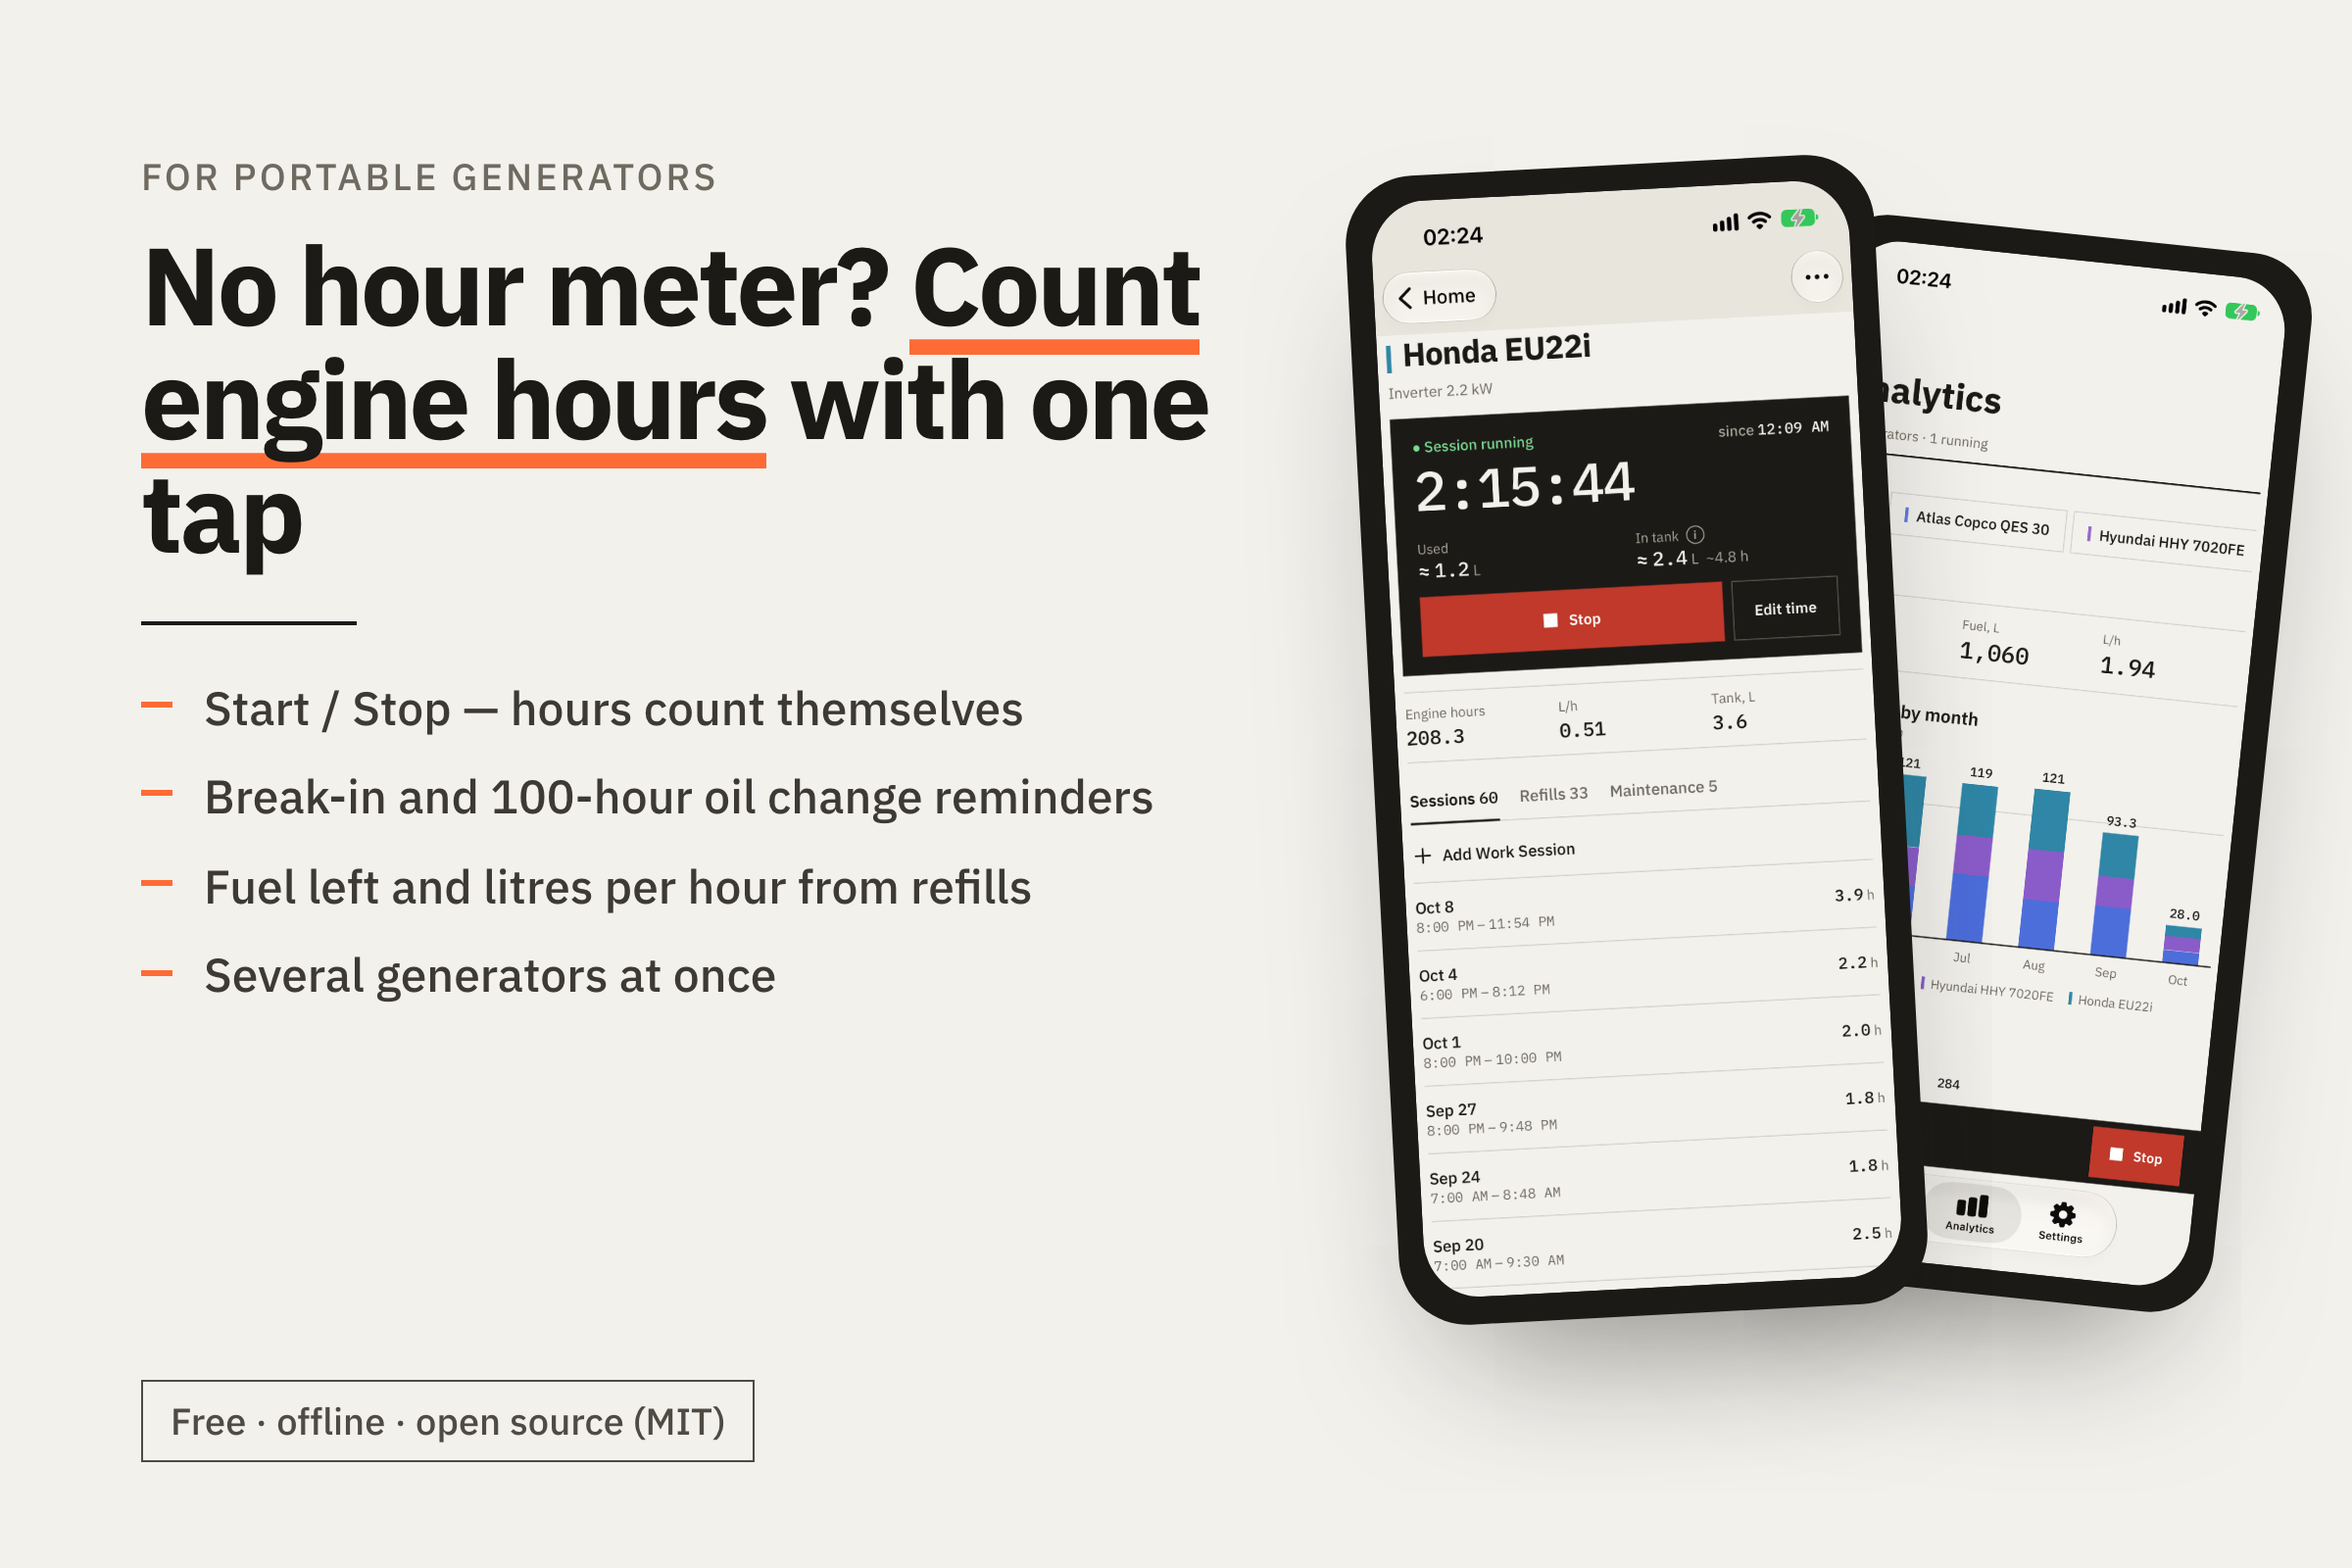
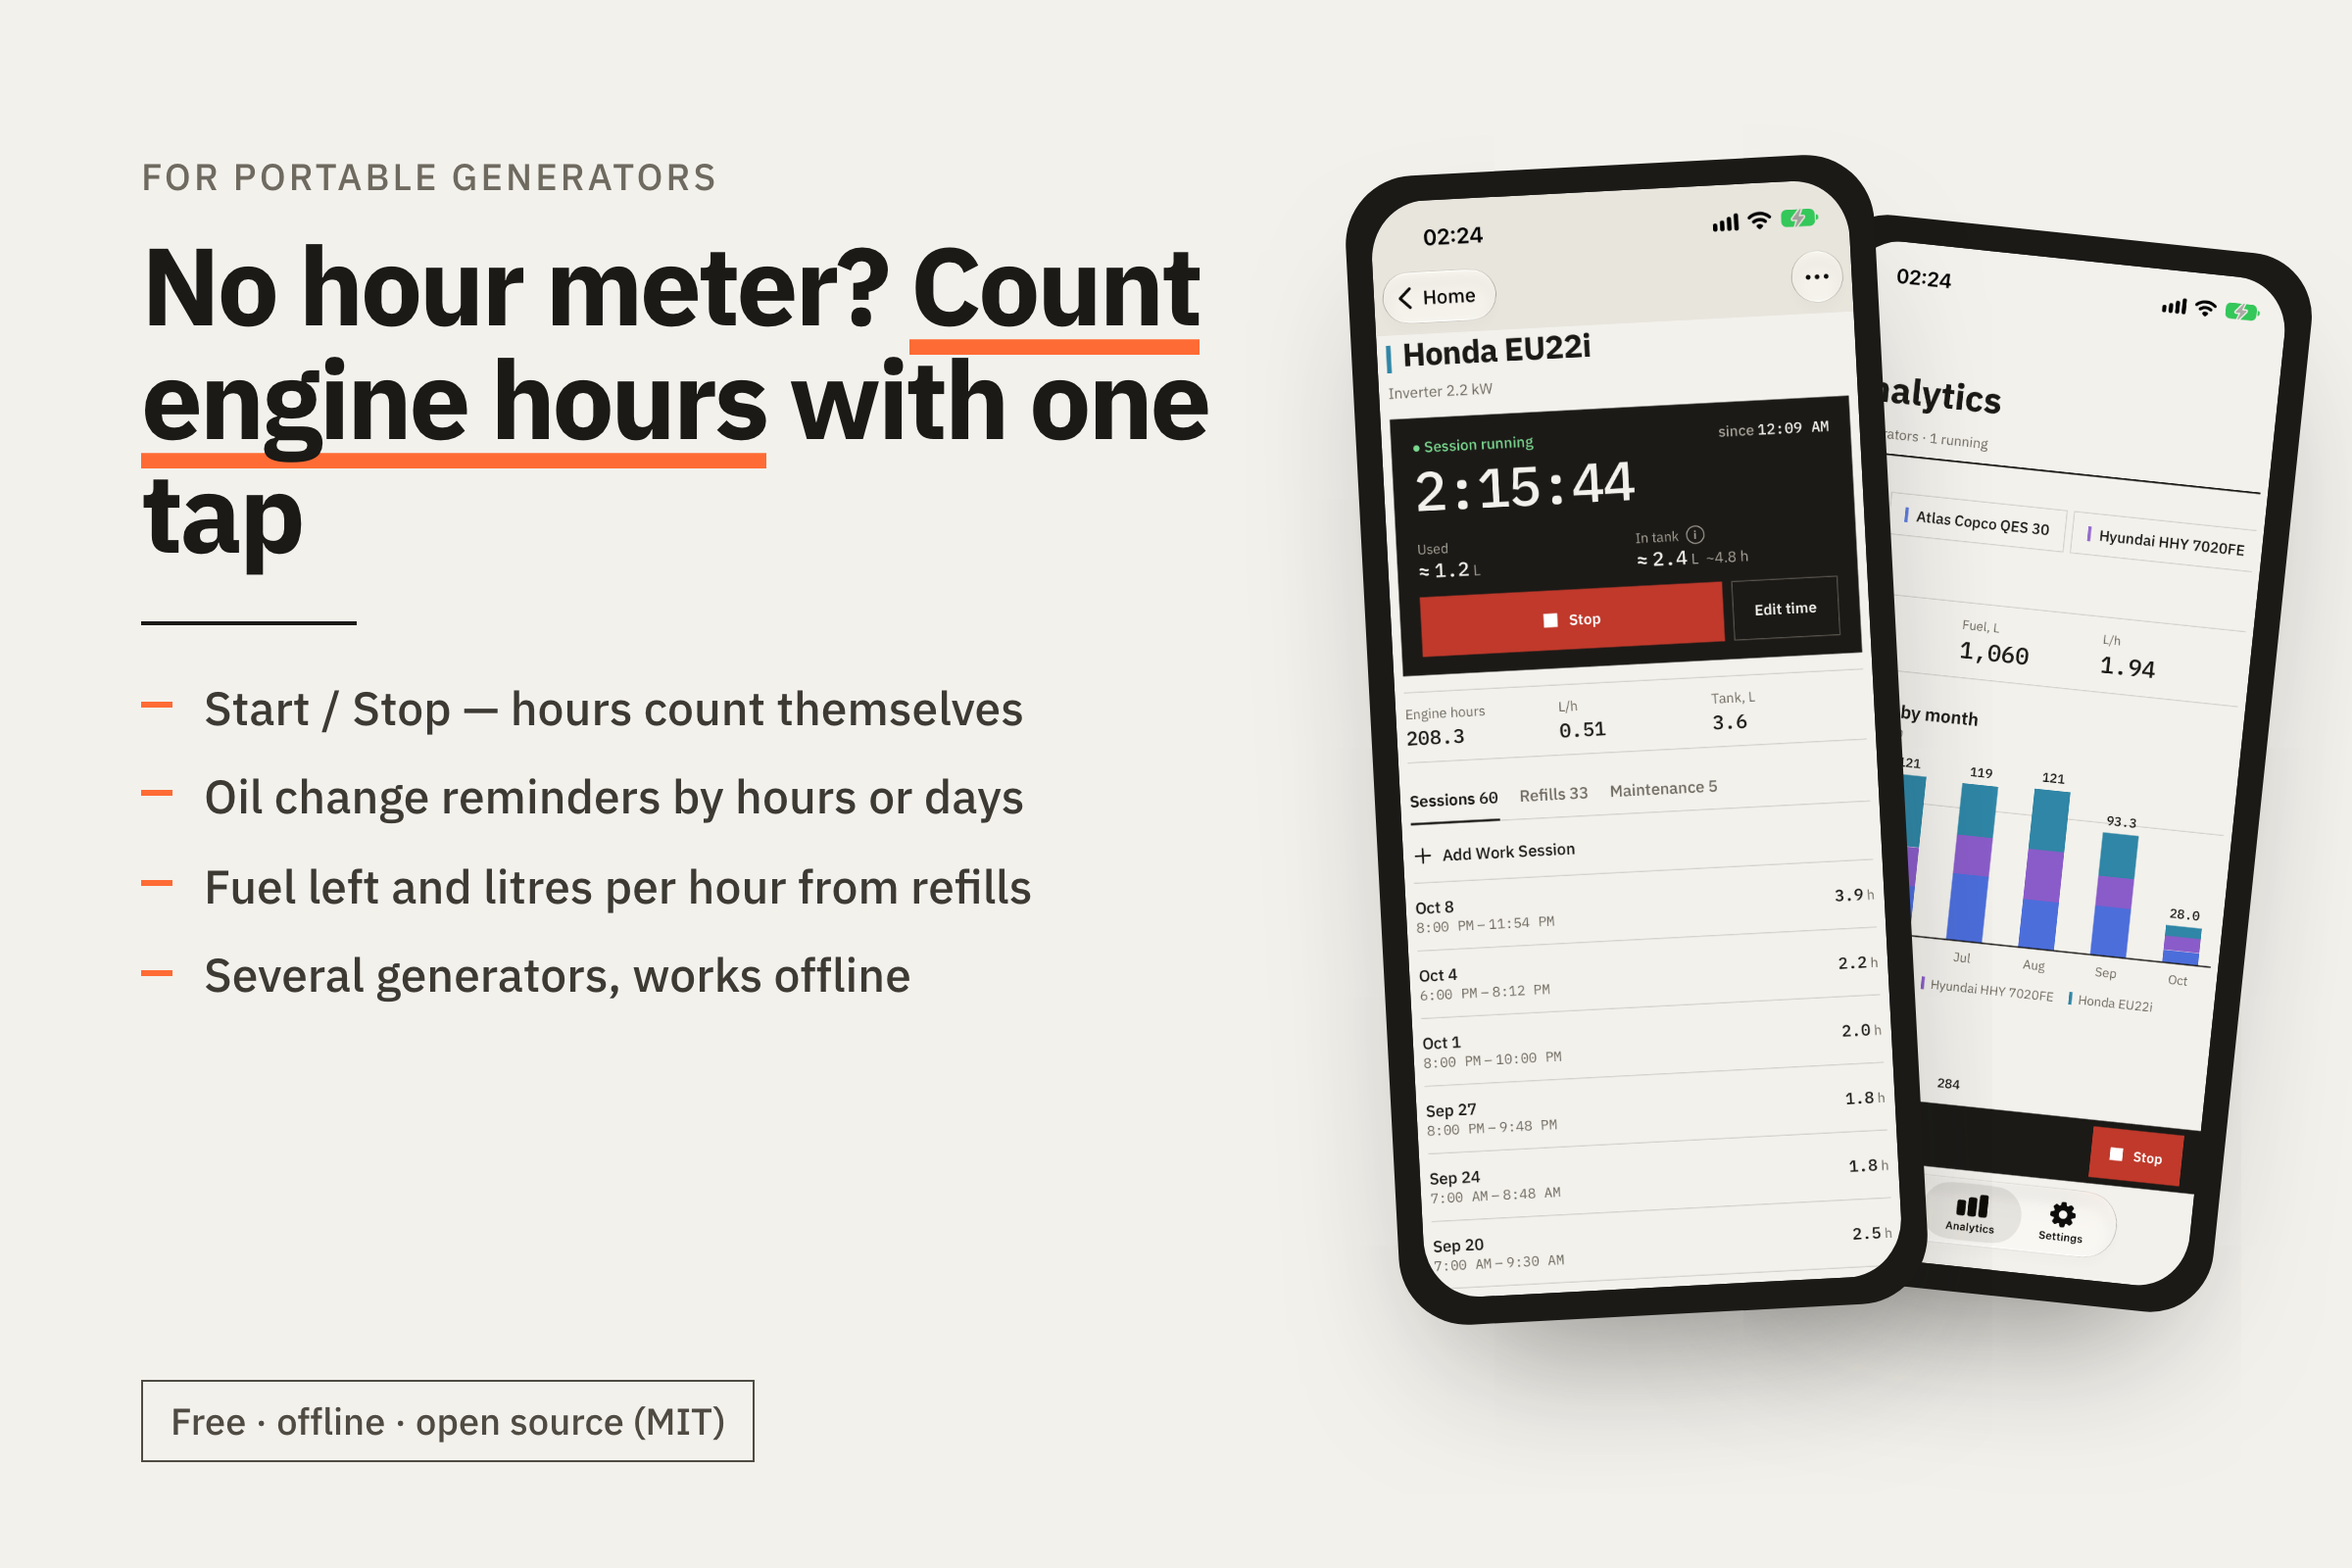
Marketing: r/Generator launch kit; no gallon claims
- marketing/reddit-generator.md: pre-flight checklist, modmail, title options,
  body, first comment and replies to likely comments for r/Generator.
- The app shows litres only: post templates no longer promise gallons, and the
  generator cover says "oil change reminders by hours or days" instead of
  implying a dedicated break-in feature.

Changed region(s): [[0.0938, 0.5, 0.5, 0.5312], [0.2812, 0.5938, 0.375, 0.6562], [0.25, 0.625, 0.2812, 0.6562]]

diff --git a/marketing/reddit-generator.md b/marketing/reddit-generator.md
@@ -1,0 +1,89 @@
+# r/Generator — launch post kit
+
+r/Generator (~57k): generator owners and techs — portables, inverters, home standby, RV/marine. They like concrete
+maintenance talk (oil intervals, break-in, fuel burn) and dislike ads. The post must be useful even to someone who
+never installs the app.
+
+## Before posting
+
+1. Read the sidebar rules and the pinned posts (rules weren't readable from here). If self-promotion is banned or
+   unclear → send the modmail below first and wait for the answer.
+2. Account: older than 3 days, a few genuine comments in r/Generator in the last days (answer 2–3 questions about
+   oil, break-in, won't-start) — no links.
+3. Time: Tue–Thu, 9–11 am US Eastern = **16:00–18:00 Kyiv**. 62% of the r/OffGridLiving views were from the US.
+4. Flair: "Discussion" or "Maintenance" if offered (not "For sale"/"Help").
+5. Image: `marketing/reddit/cover-generator.png`, attached in the text post editor.
+6. Block 2 hours after posting to answer every comment — the first hour decides whether Reddit keeps showing it.
+
+## Modmail (if the rules are unclear)
+
+> **Subject:** Developer post about a free generator logbook app — OK?
+>
+> Hi mods! I'm a developer from Ukraine. With daily blackouts our portable runs for hours every day, so I built a
+> free, open-source, offline app that logs engine hours, fuel and oil-change intervals. I'd like to make one text post
+> (clearly saying I made it), framed as a discussion about tracking hours without an hour meter, with the link only in
+> a comment. Is that OK, or would you prefer something else? Thanks!
+
+## Title (pick one)
+
+1. **How do you know when your oil change is due if your generator has no hour meter? (I built a free app for this — curious how you all track it)**
+2. No hour meter on most portables, but every service interval is in engine hours — how do you keep track?
+3. Daily blackouts in Ukraine taught me to log every engine hour — I made a free offline logbook for generators
+
+Recommended: **1** — a real question first, honest disclosure, invites comments.
+
+## Body
+
+> Most portables and inverters don't have an hour meter, but the manual's whole service schedule is in engine hours —
+> e.g. a Honda EU2200i wants the first oil change at 20 hours, then every 100 hours or 6 months (check your own manual).
+>
+> In Ukraine we've had scheduled blackouts for a while, so our generator runs 6–10 hours a day, and I kept losing
+> count of when the last oil change was. So I built a small logbook app for it (disclosure: I'm the developer — it's
+> free and open source):
+>
+> - tap Start / Stop and engine hours count themselves; several generators at once
+> - oil, air filter and spark plug intervals by engine hours, days or both, with an overdue warning
+> - enter the tank size → it estimates fuel and runtime left; litres per hour calculated from your refills
+> - monthly hours and fuel charts
+> - fully offline, no account needed (an optional one only syncs your own devices)
+>
+> Litres only for now — if gallons would make it useful for you, say so and it's next.
+>
+> I'm genuinely curious how you do it today: a notebook taped to the generator, an aftermarket hour meter, a phone
+> note, or "when it sounds rough"? And what do you track besides hours and oil — valve clearance, plugs, exercise runs,
+> fuel stabilizer?
+
+## First comment (right after posting)
+
+> Links if anyone wants to try it:
+> - iPhone/iPad (free): https://apps.apple.com/app/id6819560707
+> - Android: free Lite in closed testing (join https://groups.google.com/g/generator-tracker-lite, then opt in at https://play.google.com/apps/testing/com.yurival.GeneratorTrackerLite) or the paid full version https://play.google.com/store/apps/details?id=com.yurival.GeneratorTracker
+> - Source (MIT): https://github.com/yuri-val/GeneratorTracker
+>
+> Happy to answer questions or take feature requests.
+
+## Replies to likely comments
+
+- **"Just buy a $15 inductive hour meter."** — Totally, that's the most reliable counter. The app is more about what
+  comes after the number: which service is due next, fuel per hour, several generators in one place. Some people here
+  use both.
+- **"Gallons?"** — Not yet, litres only. It's the most requested thing so far — I'll add a gallons/US setting. Would you
+  want fuel in gallons and gal/h, or also tank size?
+- **"Is it another AI-made app?"** — It's a small hand-built project from a Ukrainian dev; the code is public on GitHub
+  if you want to see what's inside. No ads in the paid Android version; the free version has a small banner on two
+  screens.
+- **"Why do you need my data / account?"** — You don't: it works fully offline and stores everything on the phone.
+  The account is optional and only syncs your own devices.
+- **"Android is paid?"** — The full Android app is a one-time $0.99; a free Lite version (3 generators, small banner)
+  is in Google's closed test — Google requires 14 days with 12 testers before it can go public. Testers welcome.
+- **"Does it read the generator automatically / Bluetooth?"** — No, it's a manual Start/Stop log — works with any
+  generator, no hardware. Auto-detection would be cool but needs sensors.
+- **"What intervals do you use?"** — Answer with the manual's numbers for their model; don't invent. Ask their model.
+- **Criticism** — thank them, agree with what's fair, say what you'd change. Never argue.
+
+## After posting
+
+- Answer every comment within the first 2 hours, then check twice a day for 2 days.
+- If it's removed by AutoModerator: don't repost — modmail with the link.
+- Send me the stats (views, upvotes, comments) — I'll log them.
+- Gallons came up → it's the first feature for the next version.

diff --git a/marketing/reddit.md b/marketing/reddit.md
@@ -19,7 +19,7 @@ Subreddit list and rules: see the research table in `marketing/publications.loca
 
 > Most portable generators don't have an hour meter, but oil changes, filters and plugs all go by engine hours. During scheduled outages ours ran 6–10 h a day and I kept losing count, so I built a small free logbook app for it (disclosure: I'm the developer).
 >
-> What it does: tap Start/Stop and it counts engine hours; enter the tank size and it estimates fuel and runtime left, with litres/gallons per hour from your refills; maintenance by hours or days with an overdue warning; monthly charts. Works fully offline, no account needed, open source.
+> What it does: tap Start/Stop and it counts engine hours; enter the tank size and it estimates fuel and runtime left, with litres per hour from your refills (gallons not yet); maintenance by hours or days with an overdue warning; monthly charts. Works fully offline, no account needed, open source.
 >
 > Not trying to spam — genuinely curious how you all do it: notebook, sticker on the generator, an aftermarket hour meter, spreadsheet? And what would you want such an app to track that I'm missing?
 
@@ -94,7 +94,7 @@ Subreddit list and rules: see the research table in `marketing/publications.loca
 >
 > So I made a small logbook app (disclosure: I'm the developer, it's free and open source):
 > - tap Start/Stop and engine hours count themselves; several generators at once
-> - enter the tank size → fuel and runtime left; gallons/litres per hour from your refills
+> - enter the tank size → fuel and runtime left; litres per hour from your refills (litres only for now)
 > - oil / air filter / spark plug intervals by hours, days or both, with overdue warnings
 > - monthly charts of hours and fuel
 > - works fully offline, no account needed
